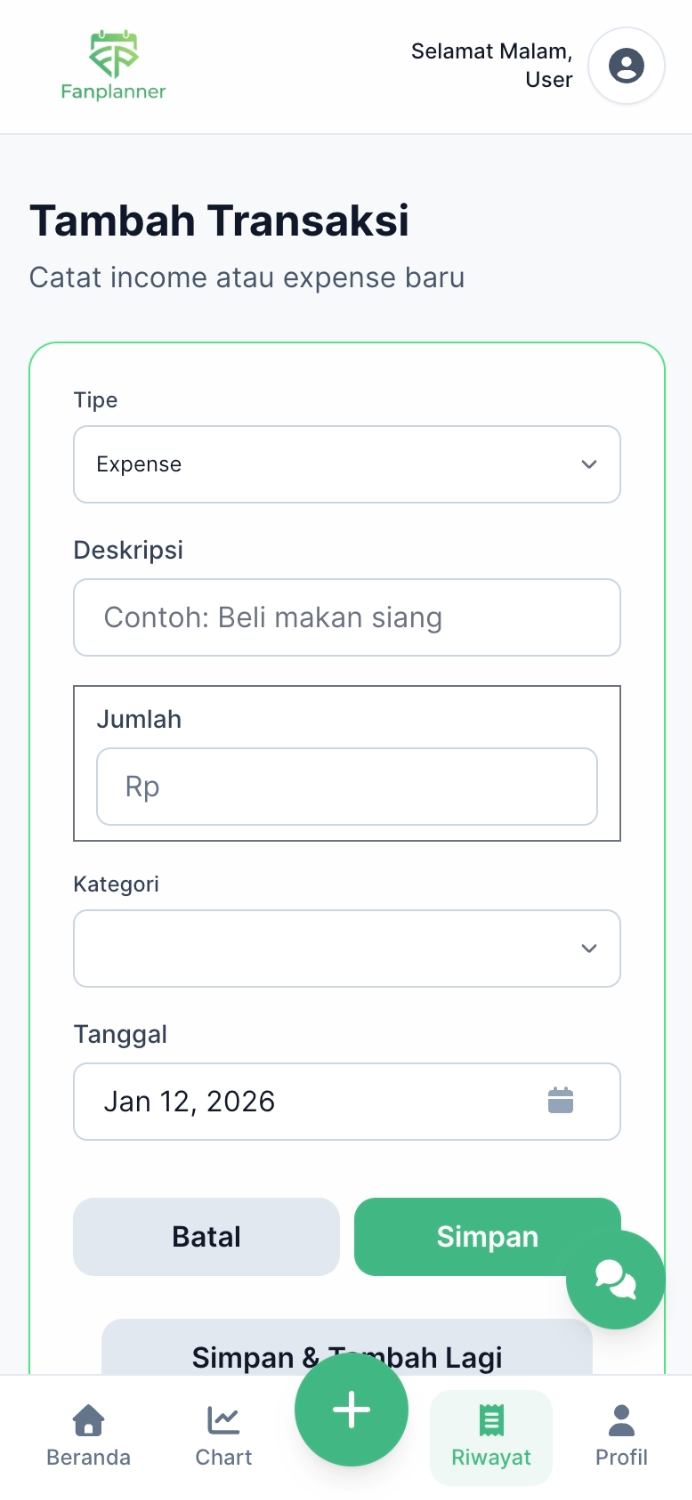
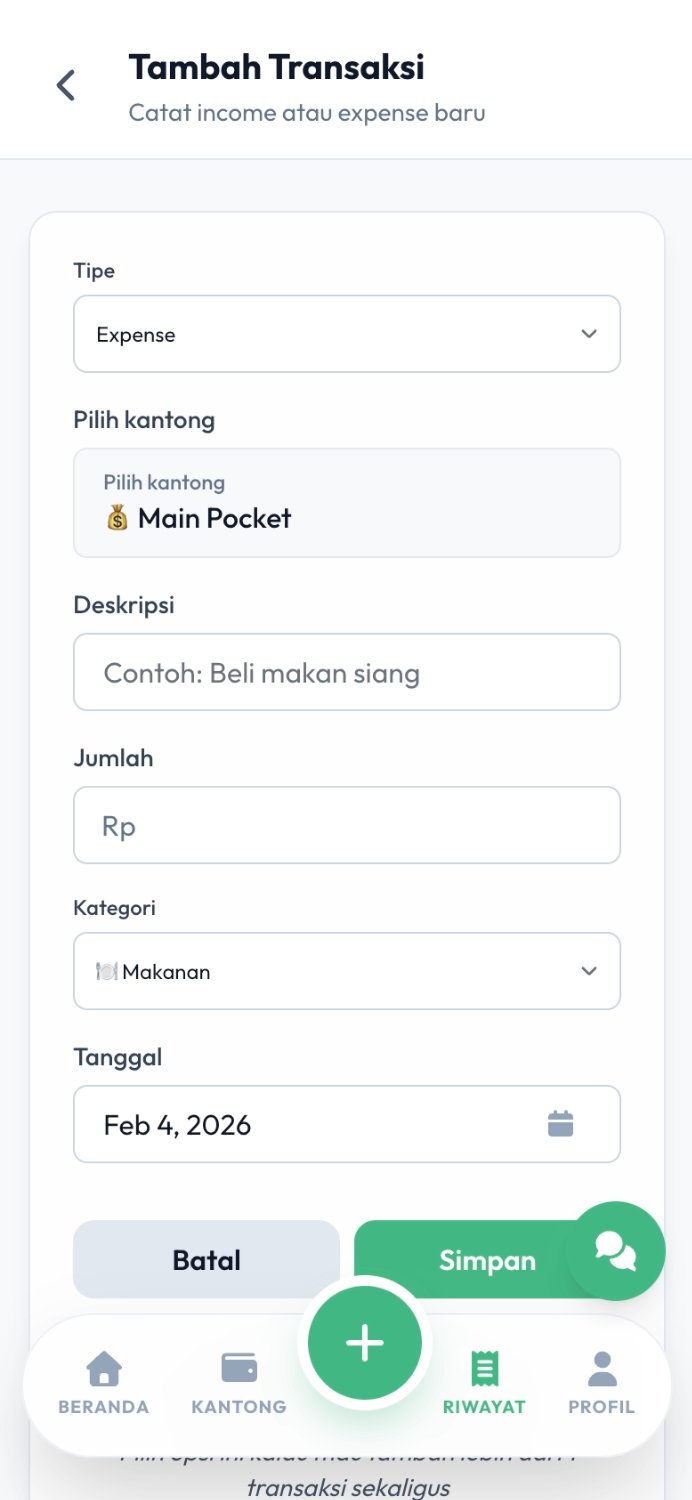
design:new design and image

diff --git a/src/composables/useI18n.js b/src/composables/useI18n.js
@@ -100,10 +100,10 @@ const translations = {
           description: 'Record transactions in the way that\'s most comfortable for you — manual, receipt scan, or just type a simple sentence. Fanplanner will organize it automatically for you.',
         },
         takeAction: {
-          label: 'Take Action',
-          title: 'Take Action Immediately, No Drama',
-          subtitle: 'Manage Transactions with Ease.',
-          description: 'Every transaction is recorded neatly right away. Edit, search, filter, export, or import data anytime — without unnecessary steps.',
+          label: 'Manage your pocket',
+          title: 'Manage Your Pocket',
+          subtitle: 'Each pocket has its own balance and history',
+          description: 'Use Pockets to separate your money by purpose — daily expenses, savings, or specific goals.',
         },
         trackProgress: {
           label: 'Track Progress',
@@ -112,7 +112,7 @@ const translations = {
           description: 'Fanplanner helps you understand where your money goes, so you can build healthier financial habits.',
         },
         feelConfident: {
-          label: 'Feel Confident',
+          label: 'Feel Secure',
           title: 'Easy Device Switching, Data Stays Safe',
           subtitle: 'Better Financial Decisions.',
           description: 'Switching devices is no problem. You can export and import all transaction data easily anytime. All data is stored privately in your device\'s browser, not on our servers. To move data to another device, you only need the data key that you own — ensuring data stays safe and can\'t be accessed by just anyone.',
@@ -224,9 +224,9 @@ const translations = {
       },
       lifetime: {
         name: 'Lifetime License',
-        originalPrice: '$4.5',
-        price: '$1.15',
-        discount: '42% OFF',
+        originalPrice: '$2,5',
+        price: '$1.25. ',
+        discount: '50% OFF',
         priceSubtext: 'One-time payment',
         description: 'Best for power users',
         badge: 'Most Popular',
@@ -381,10 +381,10 @@ const translations = {
           description: 'Catat transaksi dengan cara yang paling nyaman — manual, scan struk, atau cukup ketik kalimat biasa. Fanplanner akan menyusunnya otomatis untuk kamu.',
         },
         takeAction: {
-          label: 'Ambil Tindakan',
-          title: 'Langsung Bertindak, Tanpa Drama',
-          subtitle: 'Kelola Transaksi dengan Mudah.',
-          description: 'Setiap transaksi langsung tercatat rapi. Edit, cari, filter, export, atau import data kapan saja — tanpa langkah bertele-tele.',
+          label: 'Pilah kantongmu',
+          title: 'Atur Uang Jadi Lebih Rapi',
+          subtitle: 'Setiap kantong punya saldo dan riwayat sendiri',
+          description: 'Gunakan Kantong untuk memisahkan uang sesuai kebutuhan — harian, tabungan, atau tujuan lainnya.',
         },
         trackProgress: {
           label: 'Lacak Kemajuan',
@@ -393,7 +393,7 @@ const translations = {
           description: 'Fanplanner membantumu memahami ke mana uangmu pergi, sehingga kamu bisa membangun kebiasaan finansial yang lebih sehat.',
         },
         feelConfident: {
-          label: 'Rasa Percaya Diri',
+          label: 'Kemanan dan kemudahan',
           title: 'Mudah Berpindah Device, Data Tetap Aman',
           subtitle: 'Keputusan Finansial yang Lebih Baik.',
           description: 'Pindah perangkat bukan masalah. Kamu bisa export dan import seluruh data transaksi dengan mudah kapan saja. Semua data disimpan secara pribadi di browser perangkatmu, bukan di server kami. Untuk memindahkan data ke device lain, kamu hanya perlu data key yang kamu miliki sendiri — memastikan data tetap aman dan tidak bisa diakses sembarang orang.',
@@ -505,9 +505,9 @@ const translations = {
       },
       lifetime: {
         name: 'Lisensi Seumur Hidup',
-        originalPrice: 'Rp67.000',
-        price: 'Rp19.450',
-        discount: '42% OFF',
+        originalPrice: 'Rp45.000',
+        price: 'Rp22.500',
+        discount: '50% OFF',
         priceSubtext: 'Pembayaran satu kali',
         description: 'Terbaik untuk power users',
         badge: 'Paling Populer',

diff --git a/src/components/HeroSection.vue b/src/components/HeroSection.vue
@@ -19,7 +19,7 @@
         <!-- CTA Button -->
         <div ref="ctaRef" :class="['flex justify-center ', isCTAVisible ? 'fade-in-up visible' : 'fade-in-up']"
           style="transition-delay: 0.5s;">
-          <a href="https://financial-webapp.pages.dev/" target="_blank"
+          <a href="https://fanplanner-app.com/" target="_blank"
             class="inline-flex items-center justify-center gap-2 px-6 py-2.5 bg-primary-800 text-white font-semibold rounded-full hover:bg-primary-900 transition-all duration-200 shadow-lg hover:shadow-xl">
             {{ t.header.tryNow }}
             <svg class="w-5 h-5" fill="none" stroke="currentColor" viewBox="0 0 24 24">
@@ -61,7 +61,7 @@
 
         <!-- Right Phone (Partially Visible) -->
         <div
-          class="absolute left-1/2 bottom-0 transform translate-x-[20%] md:translate-x-[10%] rotate-12 md:rotate-6 z-10 opacity-80">
+          class="absolute left-1/2 bottom-0 transform translate-x-[20%]  md:translate-x-[10%] rotate-12 md:rotate-6 z-10 opacity-80">
           <div class="w-32 md:w-40 lg:w-48 h-52">
             <div class="bg-gray-900 rounded-[2.5rem] p-1.5 shadow-2xl">
               <div class="bg-white rounded-[2rem] overflow-hidden">
@@ -91,7 +91,7 @@ import { useI18n } from '../composables/useI18n'
 import { useScrollAnimation } from '../composables/useScrollAnimation'
 import heroImage from './assets/hero.png'
 import chartImage from './assets/chart.png'
-import summaryImage from './assets/summary.png'
+import summaryImage from './assets/pocket.png'
 
 const { t } = useI18n()
 const { elementRef: titleRef, isVisible: isTitleVisible } = useScrollAnimation({ threshold: 0.3 })

diff --git a/src/components/ProToolsSection.vue b/src/components/ProToolsSection.vue
@@ -75,7 +75,7 @@
                   </div>
 
                   <!-- Iframe -->
-                  <iframe v-show="!isLoading && !hasError" ref="demoIframe" src="https://financial-webapp.pages.dev/"
+                  <iframe v-show="!isLoading && !hasError" ref="demoIframe" src="https://fanplanner-app.com/"
                     class="w-full h-full border-0" frameborder="0" allow="clipboard-read; clipboard-write"
                     allowfullscreen @load="handleIframeLoad" @error="handleIframeError" title="Financial Web App Demo">
                   </iframe>
@@ -91,7 +91,7 @@
             </div>
 
             <!-- Open in New Tab Button -->
-            <a href="https://financial-webapp.pages.dev/" target="_blank" rel="noopener noreferrer"
+            <a href="https://fanplanner-app.com/" target="_blank" rel="noopener noreferrer"
               class="absolute -bottom-4 left-1/2 transform -translate-x-1/2 bg-white text-primary-800 text-xs font-semibold px-4 py-2 rounded-full shadow-lg hover:bg-green-50 transition-all duration-200 opacity-0 group-hover:opacity-100 flex items-center gap-2 whitespace-nowrap">
               <svg class="w-4 h-4" fill="none" stroke="currentColor" viewBox="0 0 24 24">
                 <path stroke-linecap="round" stroke-linejoin="round" stroke-width="2"

diff --git a/src/components/PricingSection.vue b/src/components/PricingSection.vue
@@ -48,7 +48,7 @@
           </ul>
 
           <!-- CTA Button -->
-          <a href="https://financial-webapp.pages.dev/" target="_blank" rel="noopener noreferrer"
+          <a href="https://fanplanner-app.com/" target="_blank" rel="noopener noreferrer"
             class="block w-full bg-primary-200 text-primary-800 text-center font-semibold py-4 px-6 rounded-full hover:bg-primary-300 transform hover:scale-105 transition-all duration-200 shadow-md hover:shadow-lg no-underline">
             {{ t.pricing.basic.cta }}
           </a>

diff --git a/src/components/ClaritySection.vue b/src/components/ClaritySection.vue
@@ -133,7 +133,7 @@ import { useScrollAnimation } from '../composables/useScrollAnimation'
 // Images
 import heroImage from './assets/hero.png'
 import optionFeaturesImage from './assets/optionFeature.png'
-import formTransactionImage from './assets/formTransaction.png'
+import formTransactionImage from './assets/pocket.png'
 import chartImage from './assets/chart.png'
 import importData from './assets/importData.png'
 

diff --git a/src/components/ContactSection.vue b/src/components/ContactSection.vue
@@ -1,5 +1,5 @@
 <template>
-  <section id="contact" class="relative py-16 md:py-14 overflow-hidden">
+  <section id="contact" class="relative py-16 md:py-14 ">
 
     <div class="relative z-10 container mx-auto px-6 sm:px-8 lg:px-12 xl:px-16 2xl:px-20">
       <!-- Contact Card -->
